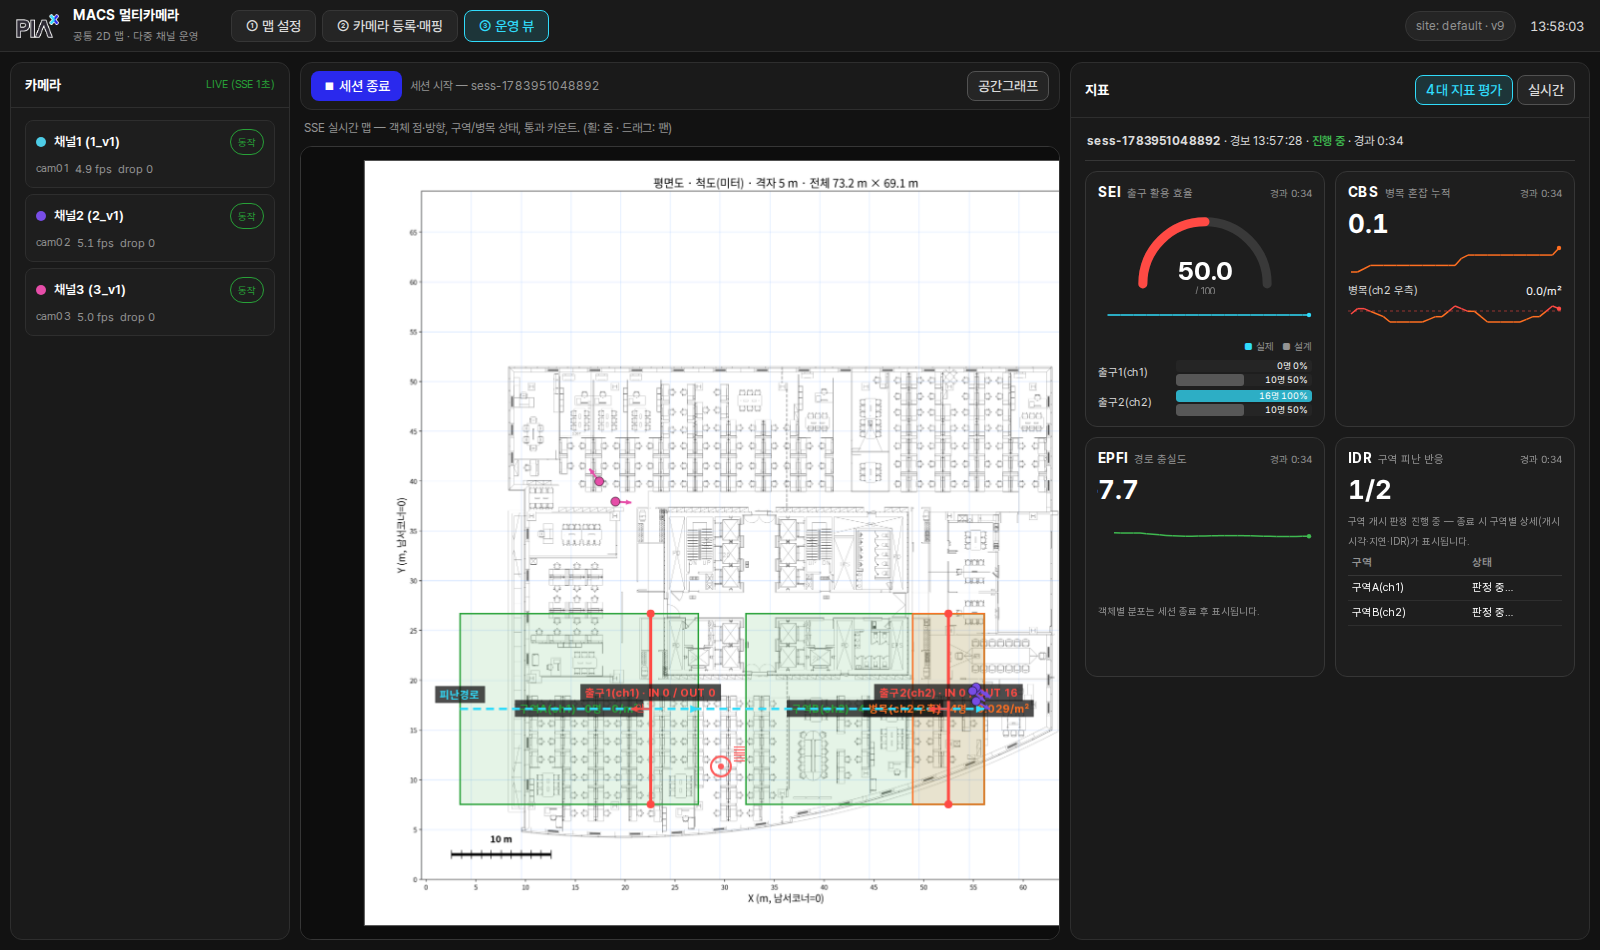
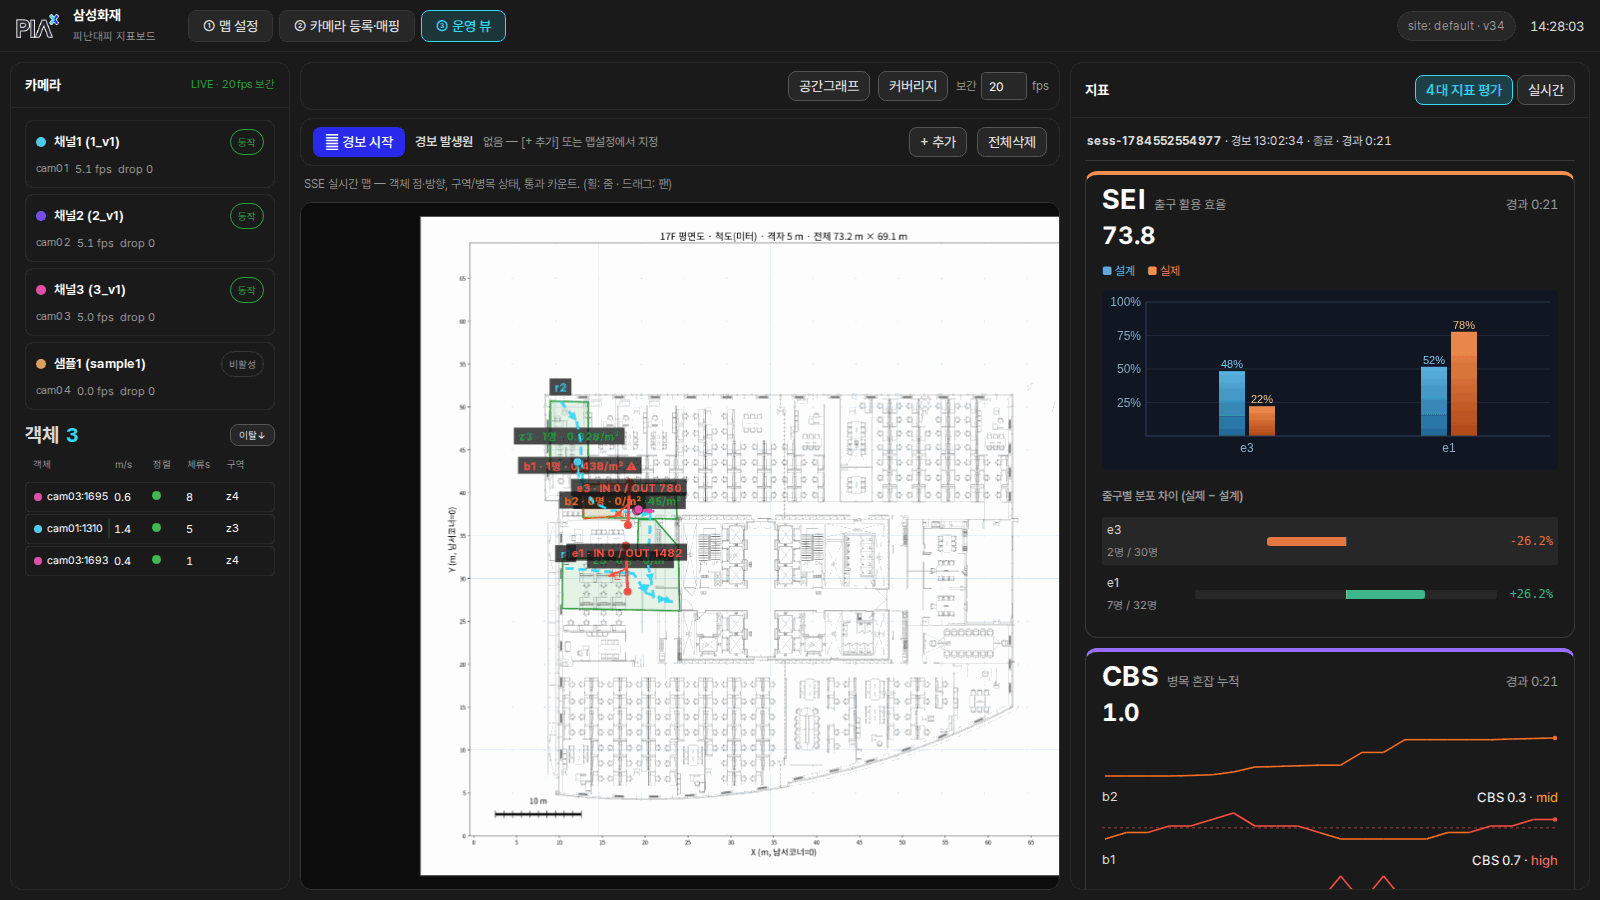
docs(guide): 멀티카메라 시스템 가이드 스크린샷·본문 최신 UI로 갱신
현재 운영 UI(:8900, cam01~03 3채널 실추적)에서 14장 재촬영 + 2장 신규,
PNG 팔레트 최적화로 4.3M→1.5M 경량화. 본문·유저플로우를 현 화면과 일치시킴.

- 카메라 목록 인라인 검출 신뢰도(min_conf): 행별 입력·적용, 헤더 "기본 conf 0.5",
  오버라이드/기본값 상속 표시 (2-1)
- 매핑 모드 분리: 대응점=점+커버리지(볼록껍질)만, 유효 ROI=valid_roi 다각형만 (2-2)
- 유효 ROI = 실제 탐지영역(위치 기반 오탐 제외) 개념·min_conf와 역할 구분 신규 (2-3, 07b)
- 운영뷰 커버리지 토글: valid_roi 있으면 그 다각형으로 탐지영역 표시 (3-2, 08b)
- 공간그래프를 레거시로 정정(IDR 거리=격자 BFS 1순위→그래프→직선거리 폴백)
- 임계값에 격자 셀·q_design 반영, DeepStream 백엔드는 UI 동일 안내(최소)
- 상단 브랜딩(삼성화재 지표보드)·site v34 등 현 상태 반영

디폴트 사이트(data/sites/default) 무변경: cam03 valid_roi 7점·min_conf 상속(0.5),
site v34 그대로. 스크린샷은 읽기전용 조작(탭·모드·패널 토글)으로만 촬영.

diff --git a/docs/guide/멀티카메라-시스템/README.md b/docs/guide/멀티카메라-시스템/README.md
@@ -2,12 +2,16 @@
 
 여러 대의 CCTV(RTSP)를 등록해 **공통 2D 평면도 위에서 사람을 추적**하고,
 경보 세션으로 **4대 정량지표(IDR·EPFI·CBS·SEI)** 를 산출하는 화면의 사용법입니다.
-아래 스크린샷은 실제 서버(:8900, 3채널 실추적)에서 캡처했습니다.
+아래 스크린샷은 실제 서버(:8900)에서 캡처했으며, **cam01~03 3채널이 5fps로 실추적 중**인
+상태(디폴트 사이트 `default`, 17F 평면도)입니다.
 
 - 접속: `http://<서버IP>:8900/` (pm2 `macs-system` 상시 기동, 재시작 `pm2 restart macs-system`)
-- 기존 단일영상 분석 UI와는 **별도 서버** — 기존 UI 좌측 레일의 맵 아이콘으로도 진입
+- 상단 브랜드는 **삼성화재 피난대피 지표보드**. 기존 단일영상 분석 UI와는 **별도 서버** —
+  기존 UI 좌측 레일의 맵 아이콘으로도 진입
 - 전체 흐름: **① 맵 설정 → ② 카메라 등록·매핑 → ③ 운영 뷰 → ④ 평가 세션(4대 지표)**
   — ①·②는 최초 1회(설정은 JSON으로 영속화, 재시작 시 자동 복원), ③·④가 평상시 화면
+- **인제스트 백엔드는 ffmpeg-NVDEC 또는 DeepStream 중 선택** — 어느 쪽이든 **UI·조작법은 동일**합니다.
+  백엔드 전환·환경변수는 [`system/README.md`](../../../system/README.md) 참조(이 가이드는 UI 사용법 위주).
 
 > 개발 문서: [설계서](../../architecture/02-멀티카메라-시스템-전환-설계.md) ·
 > [계약(API)](../../../system/CONTRACT.md) · 실행: [`system/README.md`](../../../system/README.md)
@@ -22,17 +26,21 @@
 
 | 영역 | 내용 |
 |------|------|
-| 상단 탭 | ① 맵 설정 / ② 카메라 등록·매핑 / ③ 운영 뷰 전환 |
-| 툴바 | [맵 이미지 업로드] + 드로잉 도구(이동/축척/피난경로/구역/병목/출입구/그래프) |
+| 상단 탭 | ① 맵 설정 / ② 카메라 등록·매핑 / ③ 운영 뷰 전환 (우측에 `site: default · v34` 버전 표시) |
+| 툴바 | [맵 이미지 업로드] · [CAD 도면에서 만들기] + 드로잉 도구(이동/축척 2점/피난경로/구역/병목/출입구/그래프). 각 도구에 **지표 뱃지**(EPFI·IDR·CBS·SEI)가 붙어 어떤 지표용인지 표시 |
 | 중앙 캔버스 | 평면도. **휠=줌, 드래그=팬** (모든 화면 공통) |
 | 우측 패널 | [설정]↔[지표 설명] 토글. 설정=요소 목록(개수·삭제)·판정 임계값·[사이트 저장] |
+
+- 디폴트 사이트에는 **피난경로 2개(r1·r2), 구역 3개(z3·z4·z5), 병목 2개(b1·b2), 출입구 2개(e1·e3)** 가
+  이미 그려져 있습니다. 각 항목은 지표 산출 단위입니다(아래 설명).
 
 ### 1-2. 맵 업로드 — CAD 메타로 축척 자동
 
 ![맵 업로드](img/02-맵업로드-CAD메타-자동축척.png)
 
 - [맵 이미지 업로드]에서 평면도 PNG 선택. **cad-convert 산출물이면 `*_scale.meta.json`을
-  같이 선택** → m/px 축척이 자동 설정됨(힌트에 "축척 자동 설정" 표시)
+  같이 선택** → m/px 축척이 자동 설정됨(힌트에 "축척 자동 설정" 표시). 디폴트 맵은
+  우측 [맵·축척] 패널에 `map.png · 3400×3207px · 축척 0.0239 m/px`로 반영돼 있습니다.
 - 메타 없이 이미지만 올리면 → 다음 단계(축척 2점)로 수동 지정
 - **[CAD 도면에서 만들기]** — DWG/DXF 원본에서 직접 맵 생성(새 창 **도면 편집기**:
   문 열기 터치업·Exit 지정·피난경로 검증·열지도·축척 자동 반영).
@@ -44,7 +52,7 @@
 
 ![축척 도구](img/03-축척2점-도구.png)
 
-- [축척 2점] 선택 → 실거리를 아는 두 지점 클릭 + 실거리(m) 입력
+- [축척 2점] 선택 → 실거리를 아는 두 지점 클릭 + 실거리(m) 입력 ([스냅 OFF] 토글로 수평·수직 자동 스냅)
 - 축척이 있어야 속도(m/s)·밀도(명/m²)·지표가 실단위로 계산됨 (미지정 시 해당 값 "—")
 
 ### 1-4. 공간 요소 드로잉
@@ -55,10 +63,11 @@
 |------|-----------|------|
 | **피난경로** | 클릭으로 꼭짓점, 드래그로 자유곡선. 더블클릭/Enter 완료. **시작→끝 순서 = 피난 방향(끝점이 출구 쪽)** | 방향 정렬도·EPFI·피난개시 판정 기준 |
 | **구역** | 꼭짓점 3점+ 클릭, 더블클릭 완료 (위 스크린샷 — 점선이 그리는 중) | 재실 수·밀도·IDR 단위 |
-| **병목** | 구역과 동일 + 임계밀도(명/m²) 입력 | CBS(임계 초과 누적) |
+| **병목** | 구역과 동일 + 임계밀도(ρcrit 명/m²)·가중치(w) 입력 | CBS(임계 초과 누적) |
 | **출입구** | 통과선 2점 → 세 번째 클릭 = '안쪽' 방향 | in/out 카운트·SEI |
 
 - 우측 목록에서 요소별 🗑 삭제. Esc = 그리기 취소. 이름 입력칸으로 라벨 지정 가능
+- 병목·출입구는 목록에서 임계밀도(ρcrit)·설계 통과인원(C 명/분)을 항목별로 편집
 
 > **피난경로가 하는 일 (예시)** — "회의실 앞→복도→비상구2"로 경로를 그렸다면:
 > ① **방향 정렬도**: 각 사람의 이동 방향을 최근접 경로 구간의 진행 방향과 코사인 비교
@@ -70,25 +79,22 @@
 > 넘으면 0점. **주의: 세션은 시작 시점의 경로/설정 스냅샷으로 계산** — 경로를 고치면
 > 세션을 새로 시작해야 반영(카드에 ⚠ 경고 표시).
 > 경로는 여러 개 등록 가능하며 사람마다 **세션 첫 관측 위치의 최근접 경로가 자동 배정**됨.
-> 정렬도는 매 순간 **현재 위치의 최근접 경로 구간** 기준(카메라↔경로 직접 연결 아님 —
-> 맵 좌표 거리로 자동). 단 최근접에 거리 상한이 없으므로 **구역마다 근처 경로를 하나씩**
-> 그려주는 것을 권장.
 
-> **구역이 하는 일 (예시)** — "사무구역A/회의실/복도끝" 3개를 그려두면:
-> ① 실시간 구역별 재실·밀도 ② **IDR이 구역 단위로 판정** — "회의실: 경보 7초 후 개시
-> (IDR 5.8) / 사무구역A: not_started"처럼 **어느 구역이 늦게 반응했는지** 구분
-> ③ 공간그래프 노드와 연결(경보→구역 보행거리). 구역이 없으면 IDR 산출 대상이 없음.
+> **구역이 하는 일 (예시)** — "z3/z4/z5"처럼 구역을 그려두면:
+> ① 실시간 구역별 재실·밀도 ② **IDR이 구역 단위로 판정** — "z4: 경보 2초 후 개시 /
+> z3: 6초 후 개시"처럼 **어느 구역이 늦게 반응했는지** 구분
+> ③ 격자 BFS 거리와 연결(경보→구역 보행거리). 구역이 없으면 IDR 산출 대상이 없음.
 > (병목과 차이: 병목=좁은 통로의 혼잡 누적 CBS 전용, 구역=사람 반응·점유 단위)
 
-### 1-5. 공간그래프 (IDR용)
+### 1-5. 공간그래프 (레거시 — IDR 거리 폴백)
 
 ![공간그래프](img/05-공간그래프-드로잉.png)
 
-- **왜 필요한가**: IDR = 거리÷반응시간의 "거리"를 벽을 무시한 직선이 아니라
-  **복도를 따라 걷는 실제 거리**로 재기 위한 노드-엣지 그래프
-- [그래프] 선택 → **빈 곳 클릭=노드 추가**(복도 교차점·문 위치), **노드 2회 클릭=엣지 연결**
-  (연쇄 연결 지원, 같은 엣지 재클릭=제거, 노드 더블클릭=삭제)
-- **안 그려도 동작** — 그래프가 없으면 직선거리 폴백으로 IDR 계산
+- IDR의 "거리"(경보→구역 보행거리)는 이제 **맵 축척 기반 격자 BFS**가 1순위로 계산합니다.
+  → **거리 산출 우선순위: 격자 BFS(축척 있을 때) → 수동 공간그래프 → 직선거리**
+- [그래프] 도구는 **레거시 폴백**용. 격자 BFS가 부적절한 특수 배치에서만 수동 보정으로 사용
+  (빈 곳 클릭=노드, 노드 2회 클릭=엣지 연결, 노드 더블클릭=삭제). **디폴트 사이트에는 그래프 없음**
+- 안 그려도 정상 동작 — 축척만 있으면 격자 BFS로 실거리 IDR이 계산됩니다
 
 ### 1-6. 지표 설명 탭 — 어떤 요소가 어떤 지표를 만드는가
 
@@ -96,34 +102,61 @@
 
 - 우측 패널 상단 **[지표 설명]** 토글 → IDR·EPFI·CBS·SEI 카드: **산출 수식 개요 +
   필요한 드로잉 요소**를 화면 안에서 바로 확인 (툴바·목록의 지표 뱃지와 대응)
-- 도구 뱃지 요약: 피난경로=`EPFI·정렬도` · 구역=`IDR` · 병목=`CBS` · 출입구=`SEI` · 그래프=`IDR 거리항`
+- 도구 뱃지 요약: 피난경로=`EPFI·정렬도` · 구역=`IDR` · 병목=`CBS` · 출입구=`SEI` · 그래프=`IDR 거리항(레거시)`
 
 ### 1-7. 판정 임계값 + 저장
 
-- 우측 하단 임계값(v_th 속도 · a_th 정렬도 · r_th 비율 · Δt 유지시간 · d_allow 허용이탈)
-  — 피난개시 판정·EPFI에 사용, **고객 확정 전까지 조정 가능한 설정값**
+- 우측 하단 임계값은 지표별로 묶여 표시됩니다:
+  - **IDR 피난개시 판정** — v_th(속도)·a_th(정렬도)·r_th(동시만족 비율)·dt_hold(유지시간)
+  - **EPFI** — d_allow(경로 이탈 허용폭 m)
+  - **CBS** — 병목 목록에서 항목별 ρcrit·w 개별 지정
+  - **SEI** — q_design(단위 유효폭당 설계 통과율 인/분/m — 출구폭 × q_design = 설계인원)
+  - **시스템** — min_conf(최소 검출 신뢰도), 툴바의 **격자 셀**(IDR 격자 BFS 셀 크기 m)
+  - 모두 **고객 확정 전까지 조정 가능한 잠정 설정값**
 - **[사이트 저장]** → `data/sites/<site>/site.json` 버전업 저장, 운영 뷰에 즉시 반영
 
 ---
 
 ## ② 카메라 등록·매핑 — RTSP를 도면 좌표에 연결
 
-### 2-1. 카메라 목록·추가
+### 2-1. 카메라 목록·추가 · 검출 신뢰도(min_conf) 인라인
 
 ![카메라 목록](img/06-카메라-목록과-추가폼.png)
 
-- 좌측: 등록된 카메라(이름·RTSP·활성 토글·삭제). 추가 폼에 이름+RTSP 입력 → [추가]
-- 추가 즉시 수신 시작(분석 fps 기본 5, 카메라별 설정 가능)
+- 좌측: 등록된 카메라(이름·RTSP·매핑✓·활성 토글·삭제). 추가 폼에 이름+RTSP 입력 →
+  [+ 추가 후 연결 테스트]. 추가 즉시 수신 시작(분석 fps 기본 5)
+- **각 카메라 행에 [검출 신뢰도] 입력 + [적용] 버튼** — 그 카메라의 `min_conf`를 인라인으로 조정
+  - 목록 헤더에 **사이트 전역 기본값**(`기본 conf 0.5`) 표시
+  - 값을 비우고 [적용]하면 **기본값 상속**(행에 "기본값 상속" 표기), 값을 넣으면 "오버라이드"
+  - 디폴트 사이트는 cam01~03 모두 **오버라이드 없이 0.5를 상속**(입력칸에 실효값 0.5가 채워져 표시)
+  - 이 값 미만 검출은 추적·지표에서 모두 제외 → **정지 사물 오탐 차단**(신뢰도 기준)
+- 디폴트: cam01~03(1_v1/2_v1/3_v1) 매핑 완료·활성 5fps, **cam04(sample1)는 비활성·매핑 필요**
 
 ### 2-2. 카메라↔맵 대응점 매핑
 
 ![카메라 매핑](img/07-카메라-맵-대응점-매핑.png)
 
-- 카메라 선택 → **좌: 실카메라 첫 프레임 / 우: 평면도** 나란히 표시
-- **같은 지점을 좌·우에서 번갈아 4쌍 이상 클릭** (바닥 모서리·기둥 밑 등 바닥면 기준)
-  → 서버가 호모그래피 산출·저장, 그 카메라의 발끝 좌표가 도면 좌표로 변환되기 시작
-- [유효 ROI]: 카메라 화면에서 분석할 영역 polygon(선택) — 밖의 검출은 무시
-- 저장 후 [연결 재테스트]로 프레임 갱신 가능. 카메라 1대 끝나면 다음 카메라 반복
+- 카메라 선택 → **좌: 실카메라 첫 프레임 / 우: 평면도** 나란히 표시. 상단 토글로 모드 전환
+- **[대응점] 모드**: 같은 지점을 좌·우에서 번갈아 **4쌍 이상 클릭**(바닥 모서리·기둥 밑 등 바닥면 기준)
+  → 서버가 호모그래피 산출·저장, 그 카메라의 발끝 좌표가 도면 좌표로 변환됨
+  - 이 모드에서는 **대응점 + 그 대응점들의 커버리지(볼록껍질, 노란 점선)만** 표시됩니다
+    (유효 ROI 다각형과 겹쳐 보이지 않음)
+- [↶ 마지막 취소]·[지우기]로 대응점 편집, [연결 테스트 ↻]로 프레임 갱신, [매핑 저장]으로 저장
+
+### 2-3. 유효 ROI — 실제 탐지영역(위치 기준 오탐 제외)
+
+![유효 ROI 모드](img/07b-유효ROI-모드.png)
+
+- **[유효 ROI] 모드**: 카메라 프레임 위에 **분석할 영역 polygon**(청록 점선, 꼭짓점 순서 그대로)을
+  클릭으로 지정. **이 다각형 밖의 검출은 위치로 무시**됩니다(3점 이상, 비우면 프레임 전체 유효)
+  - 이 모드에서는 **valid_roi 다각형만** 표시(대응점 커버리지와 분리)
+  - [커버리지→ROI 자동설정] — 대응점 볼록껍질을 유효 ROI로 자동 채운 뒤 다듬어 저장 가능
+- 디폴트 사이트의 **cam03에는 7점짜리 valid_roi가 설정**돼 있습니다 — 분석 대상 바닥 영역만 남기고
+  화각 가장자리를 제외한 예시
+- **min_conf vs valid_roi 역할 구분**
+  - `min_conf`(2-1) = **신뢰도 기준** 오탐 차단(낮은 확신 검출 제거)
+  - `valid_roi`(여기) = **위치 기준** 오탐 차단(예: 책상·의자 등 사람이 설 수 없는 구역을 영역에서 제외)
+  - 둘은 독립적으로 함께 쓰입니다
 
 ---
 
@@ -135,15 +168,23 @@
 
 | 영역 | 내용 |
 |------|------|
-| 좌측 | 카메라 목록 — 상태 뱃지(동작/재접속/끊김)·수신 fps·드랍 |
+| 좌측 | 카메라 목록 — 상태 뱃지(동작/재접속/끊김)·수신 fps·드랍. 아래 **객체 목록**(객체별 m/s·정렬도·체류s·구역, 행 클릭=맵 하이라이트, [이탈↓] 정렬) |
 | 중앙 | 평면도 + **객체 점·방향 화살표(카메라별 색)** + 경로/구역/병목/출입구 오버레이. 병목 임계 초과 시 붉은 하이라이트 |
-| 우측 | 실시간 지표 — 맵 위 객체 수·구역별 재실/밀도·병목·출입구 IN/OUT |
-| 상단 | **🔔 경보 시작**(세션) · [공간그래프] 토글 · SSE 연결 상태(LIVE) |
+| 우측 | [4대 지표 평가]↔[실시간] 토글. 실시간 = 맵 위 객체 수·구역별 재실/밀도·병목·출입구 IN/OUT |
+| 상단 | **🔔 경보 시작**(세션)·경보 발생원 패널·[공간그래프]·[커버리지] 토글·보간 fps·SSE 연결 상태(LIVE) |
 
-- 갱신은 SSE 1초. **카메라 영상은 표출하지 않음**(리소스 절약) — 원본 확인은 스냅샷으로
+- 갱신은 SSE 실시간. **카메라 영상은 표출하지 않음**(리소스 절약) — 원본 확인은 스냅샷으로
 - RTSP가 끊기면 자동 재접속(지수 백오프), 좌측 뱃지로 상태 확인
 
-### 3-2. 카메라 스냅샷
+### 3-2. 카메라 커버리지 표시
+
+![운영뷰 커버리지](img/08b-운영뷰-커버리지.png)
+
+- 상단 **[커버리지]** 토글 → 맵 위에 카메라별 **실제 탐지영역**을 색으로 겹쳐 표시
+- 표시 규칙이 백엔드 판정과 일치: **valid_roi가 있으면 그 다각형을 맵에 투영**(예: cam03),
+  없으면 대응점 볼록껍질. 어느 카메라가 어디를 커버하는지·사각지대를 한눈에 확인
+
+### 3-3. 카메라 스냅샷
 
 ![스냅샷](img/09-카메라-스냅샷-팝업.png)
 
@@ -157,7 +198,7 @@
 
 운영 뷰 상단 **경보 발생원 패널**에서 경보 위치를 N개 지정한 뒤 세션을 시작합니다.
 
-1. **`+ 추가`** 버튼 클릭 → 맵 위에 "경보 발생원 추가" 오버레이 표시
+1. **`+ 추가`** 버튼 클릭 → 맵 위에 "맵 클릭 → 경보 발생원 추가" 오버레이 표시
 2. **도면 위 원하는 지점 클릭** → 🔔N 칩으로 패널에 추가됨. 여러 곳 반복 클릭 가능
 3. **`+ 추가`** 다시 클릭하거나 다른 곳 클릭하면 추가 모드 해제
 4. 추가한 원점 목록 확인 후 **`🔔 경보 시작`** 클릭 → 세션 시작
@@ -171,30 +212,31 @@
 
 ![경보 대기](img/10-경보위치-클릭대기.png)
 
-### 4-2. 4대 지표 카드 (진행 중 — 우측 패널 자동 확폭)
+### 4-2. 4대 지표 카드 (우측 [4대 지표 평가] 패널)
 
-![4대지표 카드](img/11-세션-4대지표-카드.png)
+![4대지표 카드 상단](img/11-세션-4대지표-카드.png)
+
+세션이 진행 중이거나 최근 종료된 세션이 있으면 우측 [4대 지표 평가] 패널에 카드가 채워집니다
+(위 예시는 종료된 세션 `SEI 73.8 / CBS 1.0 / EPFI 95.0 / IDR 3/3`).
 
 | 카드 | 표시 내용 |
 |------|-----------|
-| **SEI** (출구 활용 효율) | 게이지(0~100) + 시간추이 + **출구별 실제/설계 분포 바 비교**. 통과 0명이면 "—"(insufficient data) |
-| **CBS** (병목 혼잡 누적) | 총 CBS + 병목별 밀도 시간추이 스파크라인(임계 초과 구간 붉게) |
-| **EPFI** (경로 충실도) | 평균(0~100) + 추이 + 객체별 분포 히스토그램 + **세션 종료 후 객체별 d(t) 이탈 곡선**(면적=누적 이탈량, 점선=d_allow) |
-| **IDR** (구역 피난 반응) | 개시 구역 수 + 구역별 표(개시시각·지연초·IDR·상태 — 미개시 회색) |
+| **SEI** (출구 활용 효율) | 게이지(0~100) + **출구별 설계/실제 분포 바 비교** + 출구별 편차. 통과 0명이면 "—"(insufficient data) |
+| **CBS** (병목 혼잡 누적) | 총 CBS + 병목별 밀도 시간추이 스파크라인(임계 초과 구간 붉게, 위험등급 mid/high) |
+| **EPFI** (경로 충실도) | 평균(0~100) + 추이 + 객체별 분포 히스토그램 + **객체별 d(t) 이탈 곡선**(선택, 면적=누적 이탈량, 점선=d_allow) |
+| **IDR** (구역 피난 반응) | 개시 구역 수(예 3/3) + 평균 + 구역별 표(개시 지연 Δt·IDR m/s — 미개시 회색) |
 
-- 우측 상단 [실시간] 버튼으로 기존 실시간 지표 패널과 전환 가능
-- 1초 간격 타임라인으로 추이가 계속 쌓임
+![세션 카드 하단 — EPFI·IDR](img/13-세션종료후-카드유지.png)
+
+- 우측 상단 [실시간] 버튼으로 실시간 지표 패널과 전환 가능
+- 종료 후에도 카드·타임라인이 유지되고, 하단 [결과 요약]·[JSON]·[CSV] 버튼이 나타납니다
 
 ### 4-3. 세션 종료 → 결과
 
 ![결과 모달](img/12-세션-결과-모달.png)
 
-- [⏹ 세션 종료] → **결과 요약 모달**: SEI·EPFI·CBS 최종값, 경보 시각·위치,
-  적용 설정 버전(calibration/config), **[JSON]·[CSV] 내보내기**(성능위주설계 연계용)
-
-![종료 후](img/13-세션종료후-카드유지.png)
-
-- 종료 후에도 카드·타임라인 유지(결과 다시 열기·내보내기 버튼)
+- [⏹ 세션 종료]/[결과 요약] → **결과 요약 모달**: SEI·EPFI·CBS·IDR 최종값, 경보 시각·위치,
+  출구 총 통과·추적 객체 수, 적용 설정 버전(calibration/config), **[JSON]·[CSV] 내보내기**
 - 결과는 `data/sites/<site>/sessions/<세션id>.json` 자동 저장 —
   **서버를 재시작해도 유지**, `GET /api/sessions`로 이력 조회
 
@@ -210,4 +252,5 @@
 | 속도·밀도가 "—" | 맵 축척 미지정 — ①-2/①-3으로 축척 설정 |
 | SEI가 "—" | 세션 중 출구 통과 0명이거나 출구 설계인원 미입력(insufficient_data 처리) |
 | 지표 값이 이상하게 큼/작음 | 카메라 매핑(대응점)이 부정확하면 좌표·속도가 왜곡 — ②-2에서 재매핑 |
-| 안 움직이는 객체가 계속 표시됨 | 의자 등 정지 사물 오탐이 트랙으로 연명하는 케이스 — 맵 설정 임계값의 **min_conf**를 올리면 차단(사람은 통상 0.8+, 오탐은 0.5 미만). 그래도 남으면 해당 구역을 유효 ROI에서 제외 |
+| 안 움직이는 객체가 계속 표시됨 | 의자 등 정지 사물 오탐 케이스 — ②-1의 **검출 신뢰도(min_conf)**를 올려 신뢰도로 차단(기본 0.5), 그래도 남으면 ②-3의 **유효 ROI**에서 그 위치를 영역 밖으로 빼 위치로 차단 |
+| ffmpeg / DeepStream 차이 | 인제스트(디코드·추론) 백엔드만 다를 뿐 **UI·조작·지표는 동일**. 전환은 `system/README.md` |
